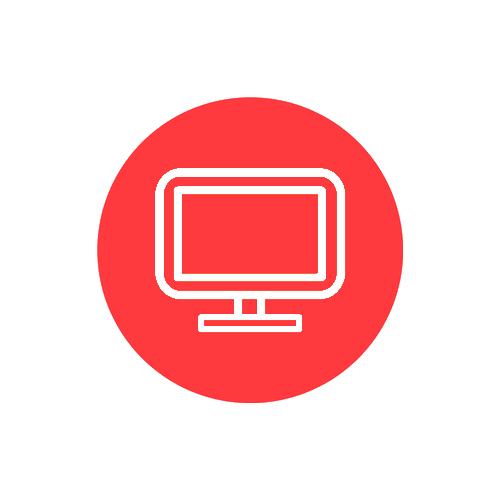
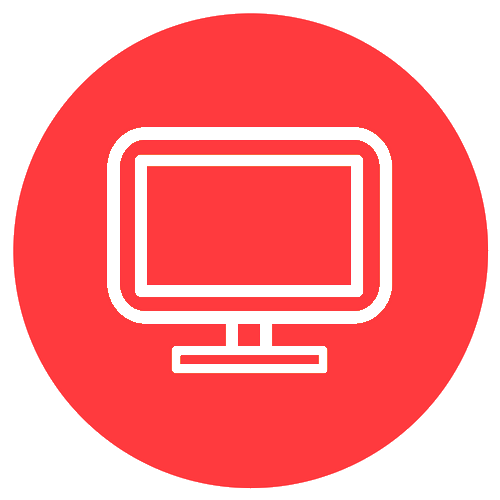
fixed circle layout

diff --git a/docs/portfolio.html b/docs/portfolio.html
@@ -64,6 +64,7 @@ $(".circle1").mouseover(function(){
                 <li><a href="contact.html">Contact</a></li>
               </ul>
           </div>
+        </div>
 
     </nav>
 
@@ -76,22 +77,25 @@ $(".circle1").mouseover(function(){
           <h1>My Portfolio</h1>
           <p> My work at Excelsior Academy</p>
         </div>
+      </div>
     </section>
 
 
 
     <!-- MAIN SECTION -->
     <section class="skillset">
-      <div class="wrap row">
         <div data-scroll="toggle(.fromBottomIn, .fromBottomOut)">
-              <div class="circle1">
-                <img src="images/computer.png">
-              </div>
-              <div class="circle2">
-                <img src="images/connecting.png">
-              </div>
+          <div class="row">
+              <div class="small-2 large-4 columns"><img class="circle1" src="images/computer.png"/></div>
+              <div class="small-4 large-4 columns"><img class="circle2" src="images/connecting.png"/></div>
+              <div class="small-6 large-4 columns"><img class="circle3" src="images/briefcase.png"/></div>
+          </div>
+          <div class="row">
+              <div class="small-2 large-4 columns"><p> Lorem ipsum dolor sit amet, consectetur adipiscing elit. Curabitur placerat leo vitae porta dictum. Quisque rhoncus, lectus id mattis ullamcorper, sem quam semper sapien, non hendrerit felis ligula eu libero. Sed vestibulum at mi at volutpat. Nam posuere nulla vitae lorem lobortis pulvinar. Maecenas tempor feugiat arcu. Praesent tempor metus ac urna cursus, in varius risus posuere. In hac habitasse platea dictumst. Sed auctor ornare commodo. </p></div>
+              <div class="small-4 large-4 columns"><p> Lorem ipsum dolor sit amet, consectetur adipiscing elit. Curabitur placerat leo vitae porta dictum. Quisque rhoncus, lectus id mattis ullamcorper, sem quam semper sapien, non hendrerit felis ligula eu libero. Sed vestibulum at mi at volutpat. Nam posuere nulla vitae lorem lobortis pulvinar. Maecenas tempor feugiat arcu. Praesent tempor metus ac urna cursus, in varius risus posuere. In hac habitasse platea dictumst. Sed auctor ornare commodo. </p></div>
+              <div class="small-6 large-4 columns"><p> Lorem ipsum dolor sit amet, consectetur adipiscing elit. Curabitur placerat leo vitae porta dictum. Quisque rhoncus, lectus id mattis ullamcorper, sem quam semper sapien, non hendrerit felis ligula eu libero. Sed vestibulum at mi at volutpat. Nam posuere nulla vitae lorem lobortis pulvinar. Maecenas tempor feugiat arcu. Praesent tempor metus ac urna cursus, in varius risus posuere. In hac habitasse platea dictumst. Sed auctor ornare commodo. </p></div>
+          </div>
         </div>
-      </div>
     </section>
 
   <section class="example-of-works">
@@ -109,7 +113,7 @@ $(".circle1").mouseover(function(){
         </div>
 
         <div class="video-summary">
-              <p> As a part of the film club, I have created a movie about the excelsior.
+              <p>  Lorem ipsum dolor sit amet, consectetur adipiscing elit. Curabitur placerat leo vitae porta dictum. Quisque rhoncus, lectus id mattis ullamcorper, sem quam semper sapien, non hendrerit felis ligula eu libero. Sed vestibulum at mi at volutpat. Nam posuere nulla vitae lorem lobortis pulvinar. Maecenas tempor feugiat arcu. Praesent tempor metus ac urna cursus, in varius risus posuere. In hac habitasse platea dictumst. Sed auctor ornare commodo. 
               </p>
         </div>
 
@@ -129,7 +133,7 @@ $(".circle1").mouseover(function(){
           <h4>Jose Cuacuas </h4>
         </div>
         </div>
-      </div>
+
 
     </footer>
 
@@ -139,7 +143,6 @@ $(".circle1").mouseover(function(){
     <script src="js/vendor/what-input.js"></script>
     <script src="js/vendor/foundation.js"></script>
     <script src="js/app.js"></script>
-
 
       </div>
     </div>

diff --git a/docs/css/app.css b/docs/css/app.css
@@ -174,6 +174,9 @@ MAIN SECTION
   color: rgba(0, 0, 0, .9);
   margin-top: 80px;
   text-align: center;
+  font-size: 16px;
+  letter-spacing: 1px;
+  line-height: 2em;
 }
 
 .about-me h1::before {
@@ -215,7 +218,7 @@ MAIN SECTION
   float: right;
   text-align: left;
   width: 50%;
-  padding: 0px 20px;
+  padding: 0px 0px 0px 35px;
   margin-top: 30px;
 }
 
@@ -315,6 +318,9 @@ PORTFOLIO
   height: 100vh;
   width: 100%;
   color: rgba(0, 0 ,0, 0.9);
+  font-size: 16px;
+  letter-spacing: 1px;
+  line-height: 2em;
 }
 
 .works {
@@ -387,6 +393,9 @@ PORTFOLIO
   float: right;
   width: 30%;
   position: relative;
+  font-size: 16px;
+  letter-spacing: 1px;
+  line-height: 2em;
 }
 
 .skillset {
@@ -395,31 +404,48 @@ PORTFOLIO
   height: 100vh;
 }
 
-.circle1 {
-  width: 250px;
-  height: 250px;
-  float: left;
+.skillset p {
+  font-size: 15px;
+  letter-spacing: 1px;
+  line-height: 2em;
 }
 
-.circle2 {
+.skillset .row {
+  padding-bottom: 30px;
+}
+
+.circle1 {
+  margin: 0 auto;
   width: 160px;
   height: 160px;
-  float: right;
-  padding-top: 45px;
+}
+
+
+.circle2 {
+  margin: 0 auto;
+  width: 160px;
+  height: 160px;
+}
+
+.circle3 {
+  margin: 0 auto;
+  width: 160px;
+  height: 160px;
 }
 
 .circle1,
-.circle2 {
-  text-align: center;
+.circle2,
+.circle3 {
   display : block;
   -webkit-transition: all 1s; /* Safari 4+ */
   -moz-transition   : all 1s; /* Fx 5+ */
   -o-transition     : all 1s; /* Opera 12+ */
-  transition        :
+  transition        : all 1s;
 }
 
 .circle1:hover,
-.circle2:hover {
+.circle2:hover,
+.circle3:hover {
   animation-name: stretch;
   animation-duration: 2s;
   animation-fill-mode: forwards;

diff --git a/docs/index.html b/docs/index.html
@@ -62,6 +62,7 @@ document.addEventListener('DOMContentLoaded', function(){
                 <li><a href="contact.html">Contact</a></li>
               </ul>
           </div>
+        </div>
 
     </nav>
 
@@ -120,7 +121,6 @@ document.addEventListener('DOMContentLoaded', function(){
           <h4>Jose Cuacuas </h4>
         </div>
         </div>
-      </div>
 
     </footer>
 
